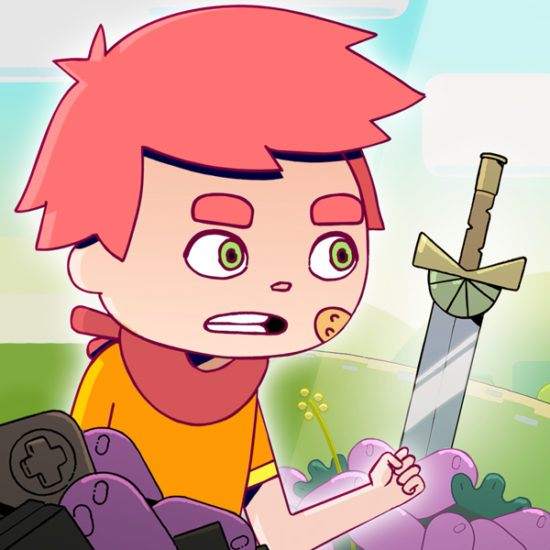
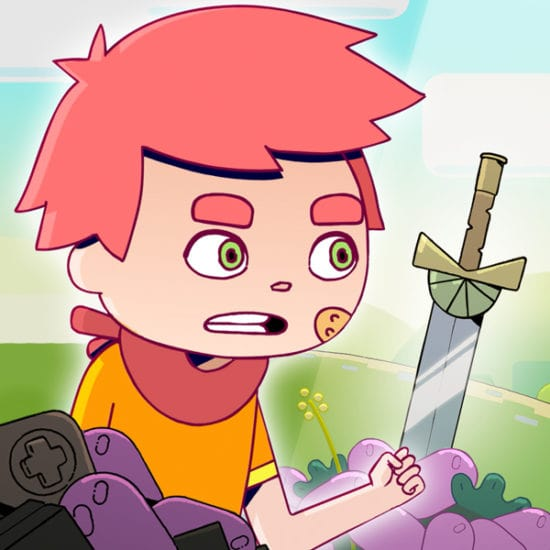
Optimiza imagenes

diff --git a/src/merch.html b/src/merch.html
@@ -17,7 +17,6 @@
   <!-- <link rel="stylesheet" href="https://raw.githubusercontent.com/vicventum/v-grid/master/css/v-grid.min.css"> -->
   <!-- V-GRID -->
   <!-- <link rel="stylesheet" href="./app/vendor/v-grid.css"> -->
-
   <link rel="stylesheet" href="app/scss/main.scss">
 
   <title>Home - Cartoon Hangover</title>
@@ -49,7 +48,7 @@
         <li><a class="u-hide-for-desktop" href="index.html">HOME</a></li>
         <li><a href="shows.html">SHOWS</a></li>
         <li><a href="about.html">ABOUT</a></li>
-        <li><a href="#">CONTACT</a></li>
+        <li><a href="about.html">CONTACT</a></li>
         <li><a href="#">CONTESTS</a></li>
         <li><a href="#">MERCH</a></li>
       </ul>
@@ -70,193 +69,46 @@
   <!-- BANNER SOCIAL -->
   <div class="banner-container u-bg--yellow">
     <section class="banner-social banner
-    v-flex flex-col j-content-center t:a-items-center l:flex-row l:j-content-between 
+    v-flex flex-col j-content-center t:a-items-center 
     u-box u-box--px">
 
-
-      <h1 class="banner__title">IT’S BAD FOR YOU.</h1>
-
-      <ul class="banner__icons
-      v-flex j-content-evenly a-items-center t:w-3/5 l:w-2/6">
-        <li><a class="banner__icons-vrv" href="#"></a></li>
-        <li><a href="#"><i class="fab fa-facebook-f"></i></a></li>
-        <li><a href="#"><i class="fab fa-tumblr"></i></a></li>
-        <li><a href="#"><i class="fab fa-instagram"></i></a></li>
-        <li><a href="#"><i class="fab fa-twitter"></i></a></li>
-        <li><a href="#"><i class="fab fa-youtube"></i></a></li>
-      </ul>
-    </section>
-  </div>
-
-  <!-- GALERY HOME -->
-  <main class="shows-home 
-      u-box u-box--pall">
-
-    <div class="galery galery-shows 
-        v-grid grid-cols-2 t:grid-cols-3 l:grid-cols-4 gap-3">
-
-      <article class="galery-shows__item">
-        <a href="">
-          <img src="img/logo-con-fondo.jpg" alt="Cartoon Hangover Select">
-
-          <h3 class="galery-shows__title">Cartoon Hangover Select</h3>
-
-        </a>
-      </article>
-
-      <article class="galery-shows__item">
-        <a href="">
-          <img src="img/bravest-warriors-poster.jpg" alt="Braves Warriors">
-
-          <h3 class="galery-shows__title">Braves Warriors</h3>
-        </a>
-      </article>
-
-      <article class="galery-shows__item">
-        <a href="">
-          <img src="img/bee-and-puppycat-poster.png" alt="bee and puppycat">
-
-          <h3 class="galery-shows__title">bee and puppycat</h3>
-        </a>
-      </article>
-
-      <article class="galery-shows__item">
-        <a href="">
-          <img src="img/go-cartoons-poster.png" alt="go! cartoons">
-
-          <h3 class="galery-shows__title">go! cartoons</h3>
-        </a>
-      </article>
-
-      <article class="galery-shows__item">
-        <a href="">
-          <img src="img/slug-riot-square-poster.jpg" alt="Slug Riot">
-
-          <h3 class="galery-shows__title">Slug Riot</h3>
-        </a>
-      </article>
-
-      <article class="galery-shows__item">
-        <a href="">
-          <img src="img/not-hero-square-poster.jpg" alt="(not)hero">
-
-          <h3 class="galery-shows__title">(not)hero</h3>
-          </h3>
-      </article>
-
-      <article class="galery-shows__item">
-        <a href="">
-          <img src="img/chris-p-duck-square-poster.jpg" alt="Chris P. Duck">
-
-          <h3 class="galery-shows__title">Chris P. Duck</h3>
-        </a>
-      </article>
-
-      <article class="galery-shows__item">
-        <a href="">
-          <img src="img/shadowstone-park-square-poster.jpg" alt="shadowstone park">
-
-          <h3 class="galery-shows__title">shadowstone park</h3>
-        </a>
-      </article>
-
-    </div>
-
-    <!-- Shows Home Btn -->
-    <button href="#" class="shows-home__btn btn btn--purple ">VIEW ALL SHOWS</button>
-  </main>
-
-  <!--MERCHANDISE-->
-  <div class="u-bg--red">
-    <section class="merchandise 
-          u-bg--red u-box u-box--px">
-  
-  
-      <!-- Galery Merchandise -->
-      <div class="galery galery-merchandise 
-          v-grid grid-cols-2 t:grid-cols-3 l:grid-cols-4 gap-4">
-  
-        <!-- Header -->
-        <div class="merchandise__header
-              col-full
-              v-flex a-items-center">
-          <img class="merchandise__logo" src="img/logo-fredhead-icon.png" alt="logo fredhead">
-  
-          <h2 class="merchandise__title">MERCHANDISE</h2>
-        </div>
-  
-        <article class="galery-merchandise__poster">
-          <a href="#">
-            <img class="galery-merchandise__img" src="img/bravest-warriors-pin.png" alt="bravest warriors pin">
-  
-            <h3 class="galery-merchandise__title">Bravest Warriors</h3>
-            <p class="galery-merchandise__desc">Limited Edition Gas Powered Pin Set</p>
-          </a>
-        </article>
-  
-        <article class="galery-merchandise__poster">
-          <a href="#">
-            <img class="galery-merchandise__img" src="img/robot-men-tshirt.png" alt="robot-men-tshirt">
-  
-            <h3 class="galery-merchandise__title">Bravest Warriors</h3>
-            <p class="galery-merchandise__desc">Limited Edition Gas Powered Pin Set</p>
-          </a>
-        </article>
-  
-        <article class="galery-merchandise__poster">
-          <a href="#">
-            <img class="galery-merchandise__img" src="img/bee-and-puppycat-tshirt.png" alt="bee-and-puppycat-tshirt">
-  
-            <h3 class="galery-merchandise__title">Bravest Warriors</h3>
-            <p class="galery-merchandise__desc">Limited Edition Gas Powered Pin Set</p>
-          </a>
-        </article>
-  
-        <article class="galery-merchandise__poster
-              t:col-start-2 l:col-auto">
-          <a href="#">
-            <img class="galery-merchandise__img" src="img/bravest-warriors-tshirt.png" alt="bravest warriors t-shirt">
-  
-            <h3 class="galery-merchandise__title">Bravest Warriors</h3>
-            <p class="galery-merchandise__desc">Limited Edition Gas Powered Pin Set</p>
-          </a>
-        </article>
-  
-      </div>
-  
-      <!-- Shows Home Btn -->
-      <button href="#" class="shows-home__btn btn btn--dark ">VIEW ALL MERCH</button>
+      <h1 class="banner__title">ABOUT US</h1>
     </section>
   </div>
 
 
+
+  <!-- NEW SECTION HERE -->
+
+
+  
 
   <!-- BANNER NEWSLETTER -->
   <div class="u-bg--purple">
     <section class="banner-newsletter banner
         u-box u-box--px 
         l:v-grid l:grid-cols-2 l:j-content-center l:j-items-center l:a-items-center">
-  
+
       <!-- Newsletter -->
       <div class="newsletter
         l:w-10/12">
         <h2 class="newsletter__title">JOIN THE MAILING LIST</h2>
         <p class="newsletter__desc">And receive exclusive updates about all things Cartoon Hangover.</p>
-  
+
         <form class="newsletter__form">
           <input class="newsletter__input" type="email" placeholder="YOUR EMAIL">
-  
-  
+
+
           <input class="newsletter__submit btn btn-dark" type="submit" value="Join">
       </div>
-  
+
       <!-- Banner Icons -->
       <div class="banner
         v-flex flex-col a-items-center 
         l:w-2/3">
         <h2 class="banner__title">FOLLOW</h2>
-  
-  
+
+
         <ul class="banner__icons
             v-flex j-content-between a-items-center w-2/3 t:w-2/4 l:w-full">
           <li><a class="banner__icons-vrv" href="#"></a></li>
